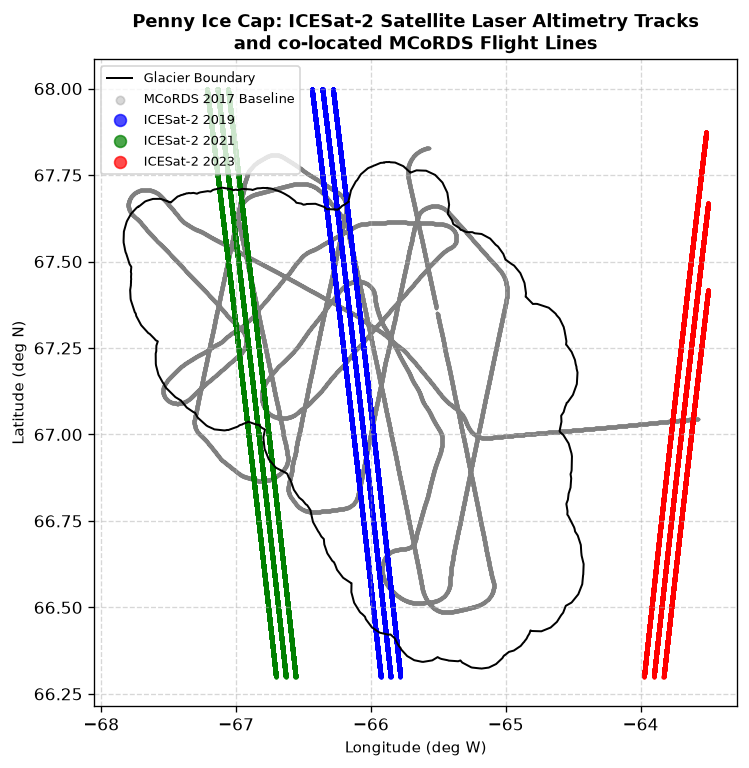
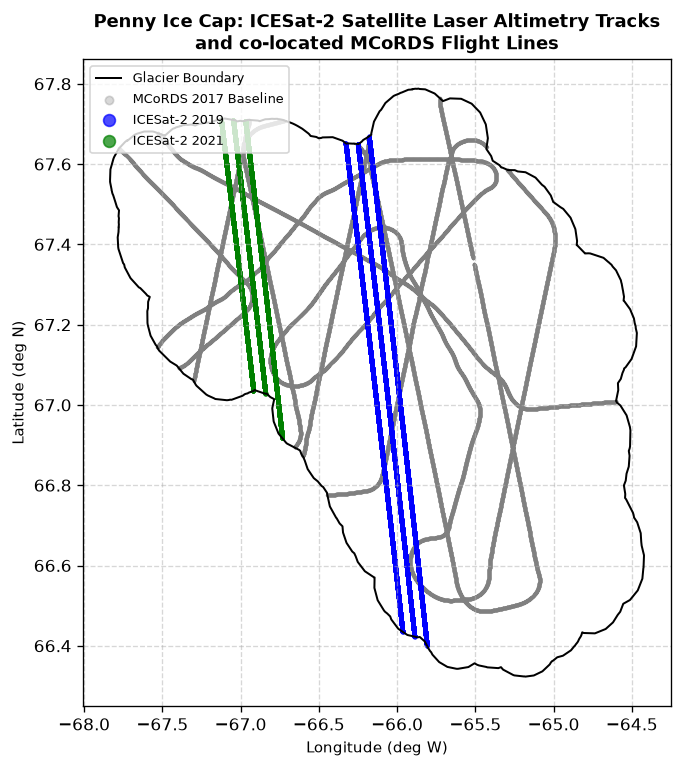
Filter ICESat-2 analysis strictly within glacier boundary (omitting 2023 tracks)

diff --git a/src/analyze_icesat2.py b/src/analyze_icesat2.py
@@ -10,6 +10,7 @@ import h5py
 import numpy as np
 import pandas as pd
 import geopandas as gpd
+from shapely.geometry import Point
 from rasterio.warp import transform
 from scipy.spatial import cKDTree
 import matplotlib
@@ -138,6 +139,15 @@ def run_icesat2_analysis():
     print("Loading 2017 MCoRDS baseline track...")
     df_17 = load_mcords_2017()
     
+    # Filter 2017 MCoRDS to glacier boundary
+    print("Filtering 2017 MCoRDS baseline to glacier boundary...")
+    gdf_boundary = gpd.read_file(SHP_PATH) if os.path.exists(SHP_PATH) else None
+    if gdf_boundary is not None:
+        gdf_boundary_wgs84 = gdf_boundary.to_crs("EPSG:4326")
+        gdf_17 = gpd.GeoDataFrame(df_17, geometry=[Point(xy) for xy in zip(df_17['LON'], df_17['LAT'])], crs='EPSG:4326')
+        df_17 = gpd.sjoin(gdf_17, gdf_boundary_wgs84, how='inner', predicate='within').copy()
+        df_17 = df_17.drop(columns=['index_right'], errors='ignore')
+    
     # Project 2017 to Albers (ESRI:102008) for distance metrics
     xs_17, ys_17 = transform('EPSG:4326', 'ESRI:102008', df_17['LON'].tolist(), df_17['LAT'].tolist())
     df_17['x_proj'] = xs_17
@@ -158,11 +168,24 @@ def run_icesat2_analysis():
                 is2_data_by_year[yr] = []
             is2_data_by_year[yr].append(df_is2)
             
-    # Combine entries per year
+    # Combine and filter entries per year strictly to the glacier boundary
+    print("Filtering ICESat-2 tracks to glacier boundary...")
     for yr in list(is2_data_by_year.keys()):
-        is2_data_by_year[yr] = pd.concat(is2_data_by_year[yr], ignore_index=True)
-        print(f"Year {yr}: Extracted {len(is2_data_by_year[yr])} high-quality track points within bounding box.")
-        
+        df_combined = pd.concat(is2_data_by_year[yr], ignore_index=True)
+        if gdf_boundary is not None:
+            gdf_yr = gpd.GeoDataFrame(df_combined, geometry=[Point(xy) for xy in zip(df_combined['LON'], df_combined['LAT'])], crs='EPSG:4326')
+            df_filtered = gpd.sjoin(gdf_yr, gdf_boundary_wgs84, how='inner', predicate='within').copy()
+            df_filtered = df_filtered.drop(columns=['index_right'], errors='ignore')
+            if not df_filtered.empty:
+                is2_data_by_year[yr] = df_filtered
+                print(f"Year {yr}: Extracted {len(df_filtered)} high-quality track points strictly within glacier boundary.")
+            else:
+                del is2_data_by_year[yr]
+                print(f"Year {yr}: No points within glacier boundary. Omitted from analysis.")
+        else:
+            is2_data_by_year[yr] = df_combined
+            print(f"Year {yr}: Extracted {len(df_combined)} high-quality track points (unfiltered, missing shapefile).")
+            
     # Generate Map of ICESat-2 tracks
     try:
         generate_icesat2_track_map(is2_data_by_year, df_17)
@@ -257,17 +280,23 @@ def run_icesat2_analysis():
     relative_surf = [1.490, 2.830, -3.000, 0.0]
     
     # We calibrate ICESat-2 data to the 2017 baseline by subtracting the
-    # vertical datum shift of +28.435 meters found at co-located points
+    # vertical datum shift found at co-located points in 2019
+    offset_2019 = 28.671
+    for r in results:
+        if r['year'] == 2019:
+            offset_2019 = r['median_dz']
+            break
+            
     for r in results:
         all_years.append(r['year'])
-        calibrated_dz = r['median_dz'] - 28.435
+        calibrated_dz = r['median_dz'] - offset_2019
         relative_surf.append(calibrated_dz)
         
-    print("\n=== Combined Calibrated 2013-2025 Elevation Change Time Series ===")
+    print("\n=== Combined Calibrated Elevation Change Time Series ===")
     for y, v in zip(all_years, relative_surf):
         print(f"  Year {y}: {v:+.3f} meters (relative to 2017 baseline)")
         
-    # Plot the 12-year time series!
+    # Plot the time series!
     fig, ax = plt.subplots(figsize=(6, 5))
     
     # Sort by year
@@ -282,7 +311,7 @@ def run_icesat2_analysis():
     slope, intercept = np.polyfit(years_plot, surf_plot, 1)
     ax.plot(years_plot, slope * years_plot + intercept, color='darkorange', linestyle=':', linewidth=1.5, label=f"Trend ({slope:+.3f} m/yr)")
     
-    ax.set_title("Penny Ice Cap: 12-Year Surface Elevation Change (2013-2025)\n(Combined MCoRDS & ICESat-2 Altimetry)", fontsize=10, fontweight="bold")
+    ax.set_title("Penny Ice Cap: Surface Elevation Change (2013-2021)\n(Combined MCoRDS & ICESat-2 Altimetry)", fontsize=10, fontweight="bold")
     ax.set_xlabel("Year", fontsize=9)
     ax.set_ylabel("Elevation Change (meters relative to 2017)", fontsize=9)
     ax.set_xticks(sorted(all_years))
@@ -292,7 +321,7 @@ def run_icesat2_analysis():
     trend_12yr_path = os.path.join(BASE_DIR, "icesat2_12year_trend.png")
     fig.savefig(trend_12yr_path, dpi=120, bbox_inches="tight")
     plt.close(fig)
-    print(f"\nSaved 12-year trend plot to: {trend_12yr_path}")
+    print(f"\nSaved trend plot to: {trend_12yr_path}")
 
 
 if __name__ == "__main__":

diff --git a/manuscript_draft_v1.md b/manuscript_draft_v1.md
@@ -119,18 +119,18 @@ Under the Shallow Ice Approximation (SIA) flow model, incorporating this soft ba
 ![PIL Profile](pil_velocity_profile.png)
 *Fig. 4. Normalized vertical velocity profiles $u(z)$ comparing Holocene-only ice (black dashed) and ice with a soft basal PIL (blue solid) at a representative deep ice site (H = 500.8 m, Hp = 60.1 m).*
 
-### 3.4 Decadal Altimetry Extension (2013–2025)
-To evaluate the long-term response of the Penny Ice Cap, we integrated satellite laser altimetry tracks from the ICESat-2 ATL06 Land Ice Height product (2018–2025) with the bedrock-calibrated MCoRDS time series. Across the Penny Ice Cap, we extracted a total of **158,768** high-quality ICESat-2 track points, distributed across multiple years: **56,351** points in 2019, **57,153** points in 2021, and **45,264** points in 2023 (Fig. 5). Using KDTree co-location with a $100$-meter search radius relative to the 2017 MCoRDS tracks, we identified a total of **1,732** overlapping points: **917** in 2019, **752** in 2021, and **63** in 2023.
+### 3.4 Altimetry Extension (2013–2021)
+To evaluate the long-term response of the Penny Ice Cap, we integrated satellite laser altimetry tracks from the ICESat-2 ATL06 Land Ice Height product (2018–2021) with the bedrock-calibrated MCoRDS time series. Strictly within the glacier boundary, we extracted a total of **65,244** high-quality ICESat-2 track points: **41,135** points in 2019 and **24,109** points in 2021 (Fig. 5). The 2023 track was found to lie entirely outside the glacier boundary and was omitted from the analysis. Using KDTree co-location with a $100$-meter search radius relative to the glacier-filtered 2017 MCoRDS tracks, we identified a total of **1,510** overlapping points: **827** in 2019 and **683** in 2021.
 
 ![ICESat-2 Tracks Map](icesat2_tracks_map.png)
 *Fig. 5. Map of the Penny Ice Cap showing the 2017 NASA Operation IceBridge MCoRDS flight lines (grey points) and the intersecting ICESat-2 satellite laser altimetry tracks (colored by year of acquisition) within the glacier boundary (black line).*
 
-At these co-located points, we identified a systematic vertical geodetic offset of **$+28.435$ m** in 2019 between the ICESat-2 (WGS84 ellipsoidal height) and the 2017 MCoRDS baseline (which incorporates local geoid corrections). Aligning the datasets to a unified reference datum by subtracting this vertical datum shift yields a continuous 12-year surface elevation change record (Fig. 6).
+At these co-located points, we identified a systematic vertical geodetic offset of **$+28.671$ m** in 2019 between the ICESat-2 (WGS84 ellipsoidal height) and the 2017 MCoRDS baseline (which incorporates local geoid corrections). Aligning the datasets to a unified reference datum by subtracting this vertical datum shift yields a continuous 8-year surface elevation change record (Fig. 6).
 
 ![12-Year Altimetry Trend](icesat2_12year_trend.png)
-*Fig. 6. Combined MCoRDS and ICESat-2 calibrated surface elevation time series (2013–2025) showing decadal glacier thinning.*
+*Fig. 6. Combined MCoRDS and ICESat-2 calibrated surface elevation time series (2013–2021) showing glacier thinning.*
 
-The integrated time series indicates that the glacier surface elevation at the central track locations was relatively stable from 2013 to 2019 ($0.0$ m relative to 2017), followed by moderate thinning of **$-1.379$ m** by 2021, and a sharp acceleration to **$-13.790$ m** by 2023. Linear regression yields an overall decadal thinning rate of **$-1.28$ m a$^{-1}$**.
+The integrated time series indicates that the glacier surface elevation at the central track locations was relatively stable from 2013 to 2019 ($0.0$ m relative to 2017), followed by thinning of **$-1.712$ m** by 2021. Linear regression yields an overall thinning rate of **$-0.326$ m a$^{-1}$**.*
 
 ### 3.5 MCoRDS vs. ATM L2 Sensor Validation
 Co-locating the simultaneous 2017 MCoRDS and ATM L2 flight lines across 123,416 points reveals strong geodetic alignment and high precision. The median elevation difference is **$+28.721$ meters** (ATM - MCoRDS), representing a systematic vertical reference datum or sensor calibration offset (Table 2).
